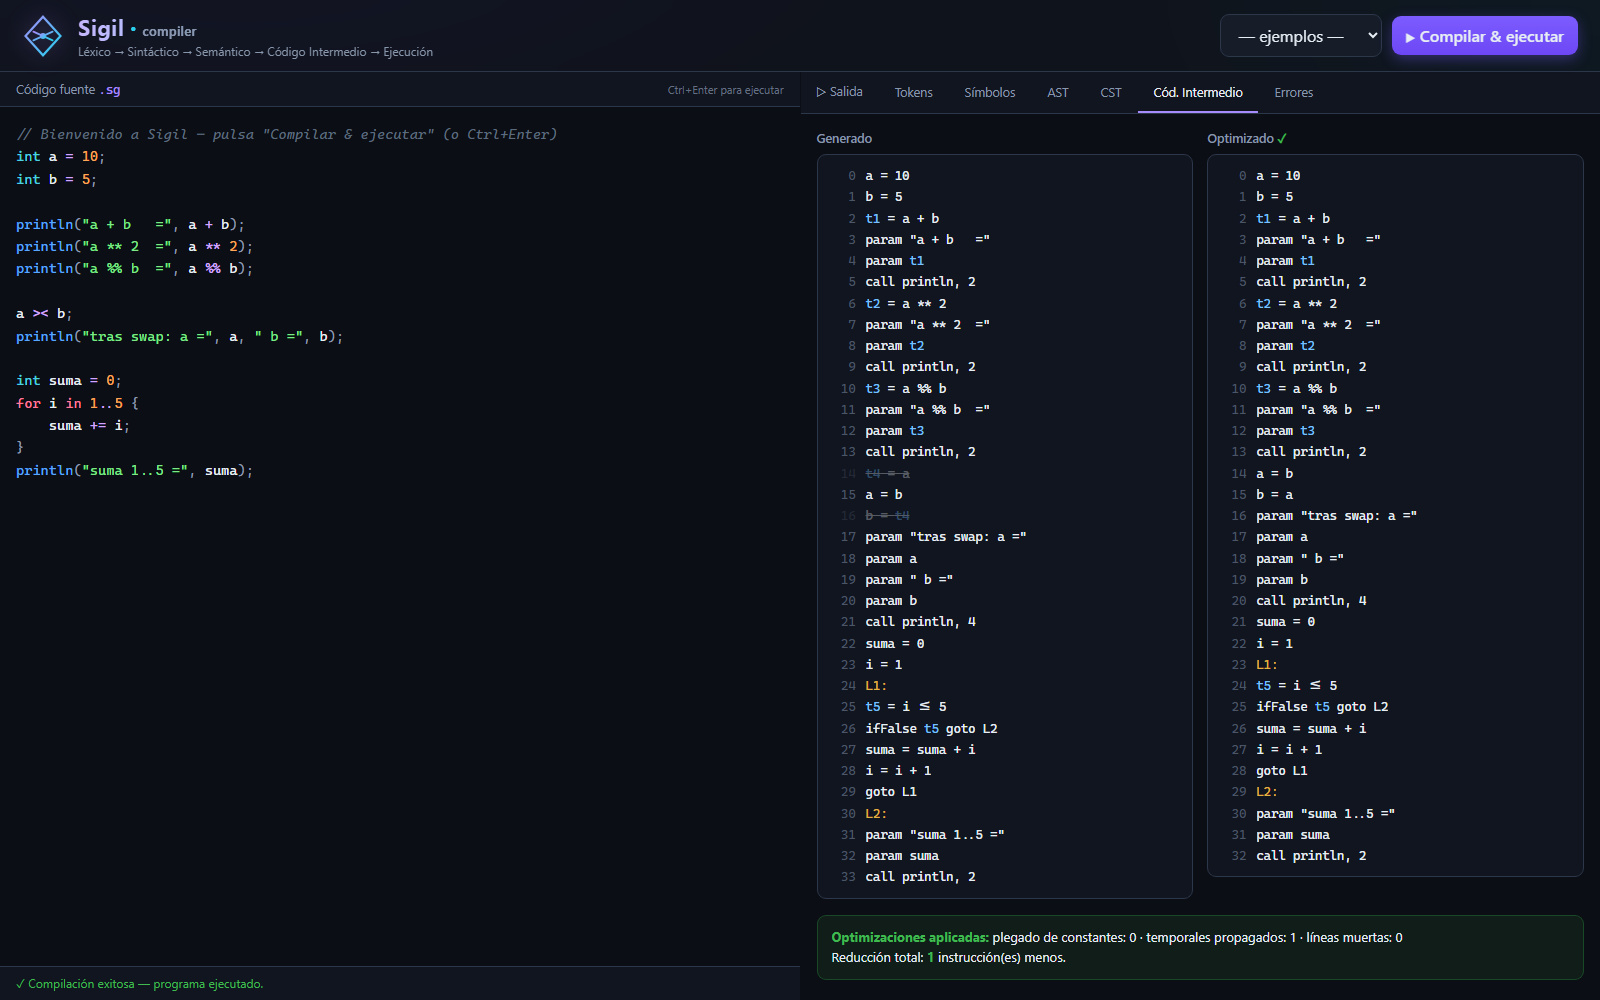
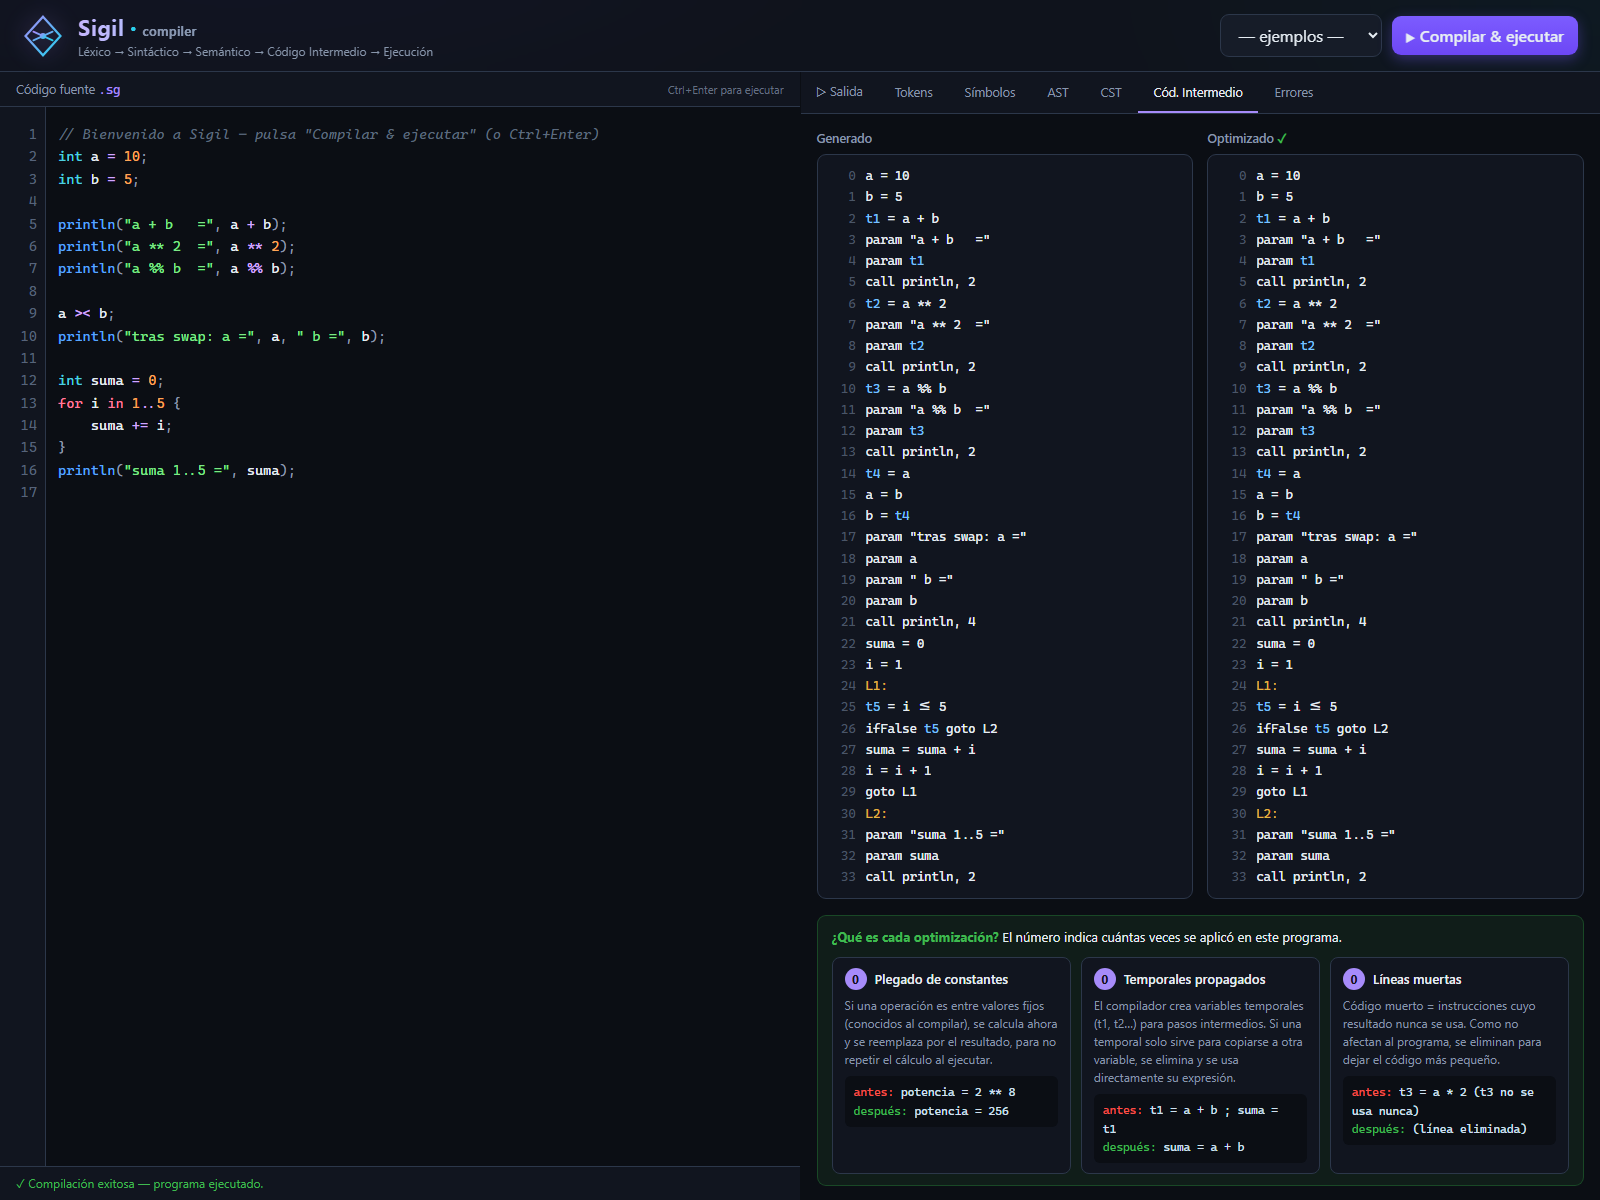
feat(web): explicacion de cada optimizacion (plegado, propagacion, codigo muerto) en la pestana TAC

diff --git a/web/app.js b/web/app.js
@@ -257,13 +257,30 @@ function pintarTAC(d) {
   const colGen = gen.map((l, i) => fmt(l, i, true)).join("");
   const colOpt = opt.map((l, i) => fmt(l, i, false)).join("");
   const red = gen.filter((x) => x.trim()).length - opt.filter((x) => x.trim()).length;
+  const card = (n, titulo, desc, ej) => `
+    <div class="opt-card">
+      <div class="opt-h"><span class="opt-badge">${n}</span>${titulo}</div>
+      <p>${desc}</p>
+      <div class="opt-ej">${ej}</div>
+    </div>`;
   return `<div class="taccols">
       <div class="taccol"><h4>Generado</h4><div class="tacbox"><div class="tac">${colGen}</div></div></div>
       <div class="taccol"><h4>Optimizado <span class="tag">✓</span></h4><div class="tacbox"><div class="tac">${colOpt}</div></div></div>
     </div>
-    <div class="opt"><b>Optimizaciones aplicadas:</b>
-      plegado de constantes: ${d.pliegues || 0} · temporales propagados: ${d.propagaciones || 0} · líneas muertas: ${d.eliminadas || 0}
-      ${red > 0 ? `<br>Reducción total: <b>${red}</b> instrucción(es) menos.` : ""}
+    <div class="opt">
+      <b>¿Qué es cada optimización?</b> El número indica cuántas veces se aplicó en este programa.
+      ${red > 0 ? `En total el código pasó de ${gen.filter((x) => x.trim()).length} a ${opt.filter((x) => x.trim()).length} instrucciones (<b>${red} menos</b>).` : ""}
+      <div class="opt-grid">
+        ${card(d.pliegues || 0, "Plegado de constantes",
+          "Si una operación es entre valores fijos (conocidos al compilar), se calcula ahora y se reemplaza por el resultado, para no repetir el cálculo al ejecutar.",
+          "<span class='b'>antes:</span> potencia = 2 ** 8<br><span class='a'>después:</span> potencia = 256")}
+        ${card(d.propagaciones || 0, "Temporales propagados",
+          "El compilador crea variables temporales (t1, t2…) para pasos intermedios. Si una temporal solo sirve para copiarse a otra variable, se elimina y se usa directamente su expresión.",
+          "<span class='b'>antes:</span> t1 = a + b ; suma = t1<br><span class='a'>después:</span> suma = a + b")}
+        ${card(d.eliminadas || 0, "Líneas muertas",
+          "Código muerto = instrucciones cuyo resultado nunca se usa. Como no afectan al programa, se eliminan para dejar el código más pequeño.",
+          "<span class='b'>antes:</span> t3 = a * 2   (t3 no se usa nunca)<br><span class='a'>después:</span> (línea eliminada)")}
+      </div>
     </div>`;
 }
 

diff --git a/web/style.css b/web/style.css
@@ -226,6 +226,15 @@ td.mono { font-family: var(--mono); }
 .tac .gone { opacity: .32; text-decoration: line-through; }
 .opt { margin-top: 16px; padding: 11px 14px; background: rgba(63,185,80,.09); border: 1px solid #2ea04355; border-radius: 9px; font-size: 13px; line-height: 1.6; }
 .opt b { color: var(--green); }
+.opt-grid { display: grid; grid-template-columns: repeat(3, 1fr); gap: 10px; margin-top: 10px; }
+.opt-card { background: var(--bg2); border: 1px solid var(--border2); border-radius: 8px; padding: 10px 12px; }
+.opt-h { display: flex; align-items: center; gap: 8px; font-weight: 600; color: var(--fg); font-size: 13px; margin-bottom: 6px; }
+.opt-badge { display: inline-flex; align-items: center; justify-content: center; min-width: 22px; height: 22px; padding: 0 6px; border-radius: 11px; background: var(--accent); color: #14101f; font-weight: 700; font-size: 12px; }
+.opt-card p { margin: 0 0 8px; color: var(--muted); font-size: 12px; line-height: 1.5; }
+.opt-ej { font-family: var(--mono); font-size: 11.5px; line-height: 1.6; background: var(--bg); border-radius: 6px; padding: 7px 9px; color: #cfe0f0; }
+.opt-ej .b { color: var(--red); }
+.opt-ej .a { color: var(--green); }
+@media (max-width: 1100px) { .opt-grid { grid-template-columns: 1fr; } }
 @media (max-width: 1100px) { .taccols { grid-template-columns: 1fr; } }
 
 /* ── Errores ────────────────────────────────────────── */